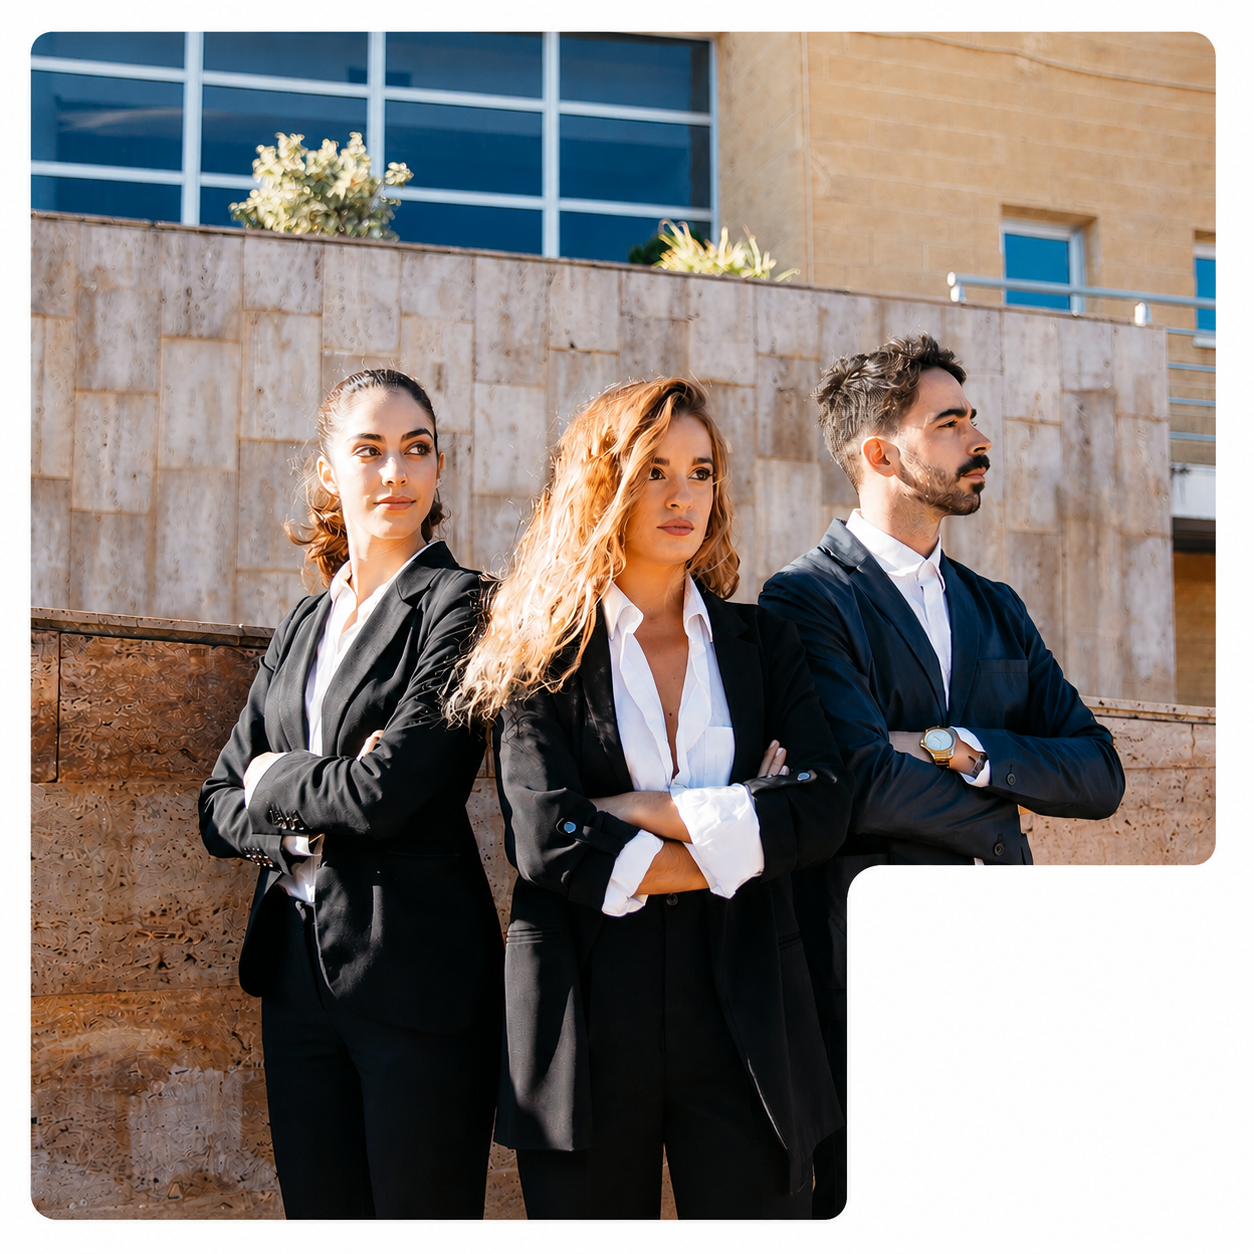
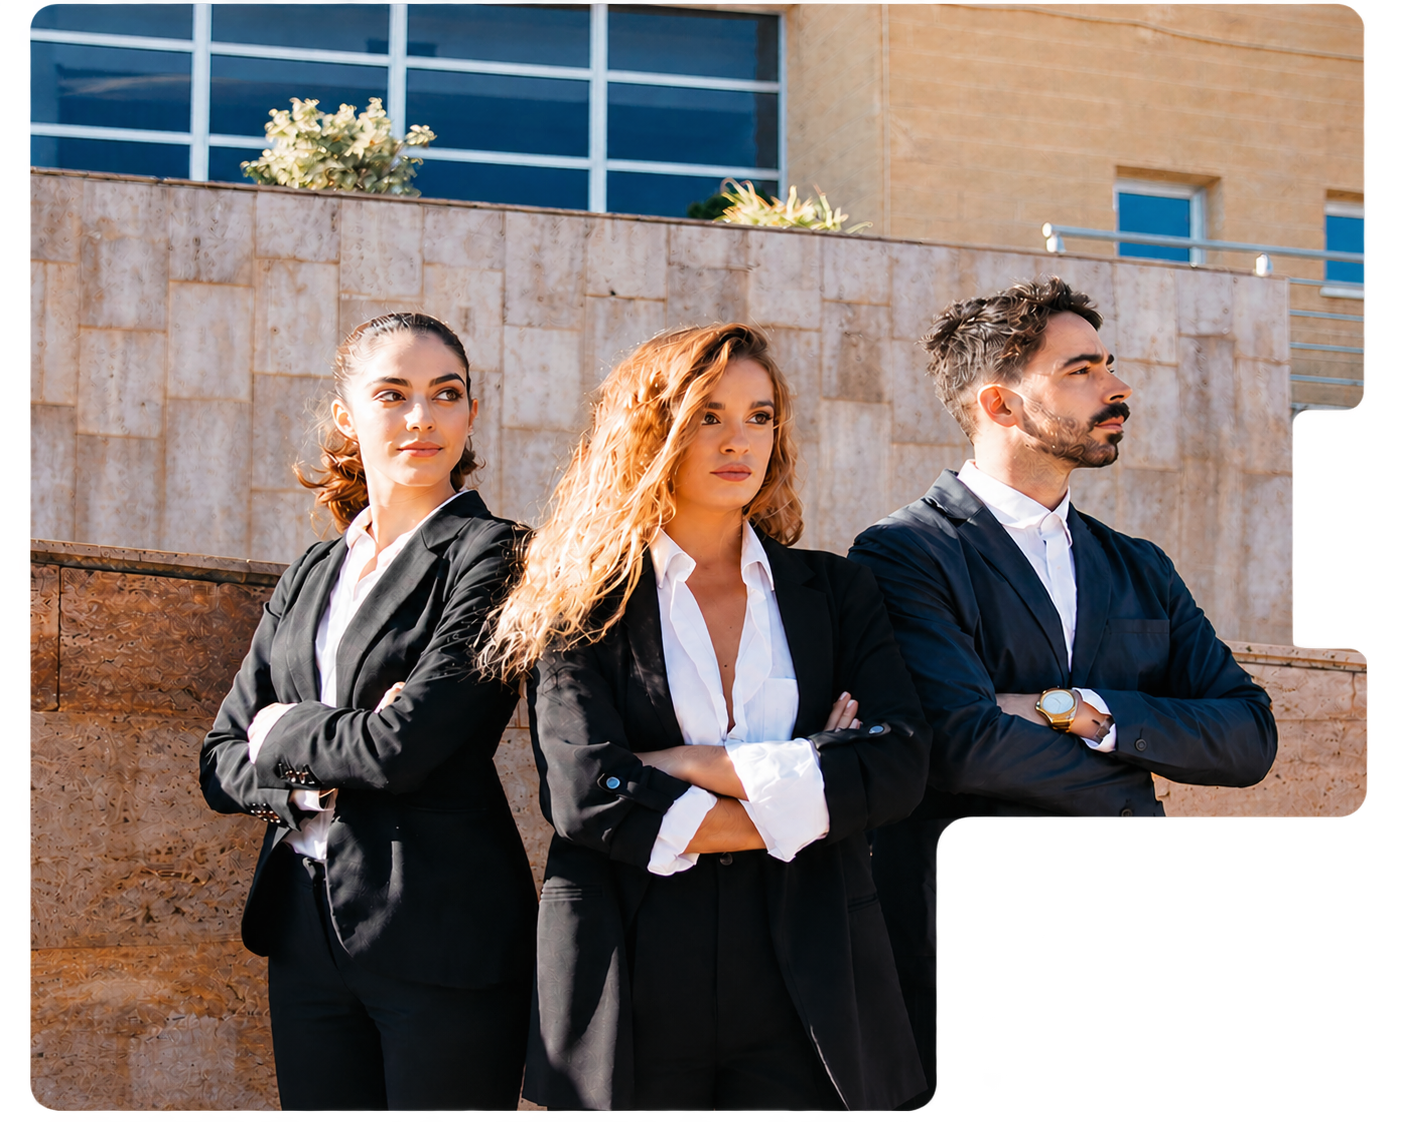
Fix mobile: Why Capital OS heading visibility, hero spacing, image padding, new working process image
- Why Capital OS: reduced text margin-top (50→40px) and image bottom padding for better visibility
- Hero section: increased bottom padding (260→280px) for more space between trust badges and image
- Working Process: replaced image with new section image

🤖 Generated with Codebuff

diff --git a/src/components/Landing/WhyCapitalOS.tsx b/src/components/Landing/WhyCapitalOS.tsx
@@ -42,7 +42,7 @@ const WhyCapitalOS: React.FC = () => {
       <div className="container sm:max-w-[540px] md:max-w-[720px] lg:max-w-[960px] xl:max-w-[1308px] mx-auto px-[12px]">
         <div className="grid grid-cols-1 lg:grid-cols-2 gap-[25px]">
           {/* Text content — second on mobile, first on desktop */}
-          <div className="order-2 lg:order-1 mt-[50px] lg:mt-0 ltr:xl:pr-[35px] rtl:xl:pl-[35px]">
+          <div className="order-2 lg:order-1 mt-[40px] lg:mt-0 ltr:xl:pr-[35px] rtl:xl:pl-[35px]">
             <span className="block uppercase text-xs md:text-sm tracking-[1.95px] font-bold text-[#D15616] mb-[10px]">
               WHY CAPITAL OS
             </span>
@@ -80,7 +80,7 @@ const WhyCapitalOS: React.FC = () => {
             </div>
           </div>
           {/* Image — first on mobile, second on desktop */}
-          <div className="order-1 lg:order-2 pt-[20px] lg:pt-0">
+          <div className="order-1 lg:order-2 pt-[10px] pb-[12px] lg:pt-0 lg:pb-0">
             <div className="text-center relative lg:sticky top-[100px] ltr:lg:pl-[50px] rtl:lg:pr-[50px] ltr:xl:pl-[80px] rtl:xl:pr-[80px]">
               <Image
                 src="/images/real-estate-agent/why-trezo.jpg"

diff --git a/src/components/Landing/HeroBanner.tsx b/src/components/Landing/HeroBanner.tsx
@@ -10,7 +10,7 @@ const HeroBanner: React.FC = () => {
       <div className="container sm:max-w-[540px] md:max-w-[720px] lg:max-w-[960px] xl:max-w-[1308px] mx-auto px-[12px]">
         <div className="relative bg-[#06201b] rounded-[20px] md:rounded-[30px] overflow-hidden min-h-[480px] md:min-h-[560px] lg:min-h-[600px] xl:min-h-[640px]">
           {/* Left: Copy — more top padding, centered vertically */}
-          <div className="relative z-10 pt-[45px] pb-[260px] px-[20px] md:pt-[60px] md:px-[40px] lg:pt-[80px] lg:pb-[20px] lg:px-[50px] xl:pt-[90px] xl:px-[80px] lg:absolute lg:inset-y-0 lg:left-0 lg:w-[50%] lg:flex lg:flex-col lg:justify-center">
+          <div className="relative z-10 pt-[45px] pb-[280px] px-[20px] md:pt-[60px] md:px-[40px] lg:pt-[80px] lg:pb-[20px] lg:px-[50px] xl:pt-[90px] xl:px-[80px] lg:absolute lg:inset-y-0 lg:left-0 lg:w-[50%] lg:flex lg:flex-col lg:justify-center">
             <h1 className="!font-medium !text-[#ebebe0] !text-[32px] md:!text-[44px] lg:!text-[50px] xl:!text-[58px] !leading-[1.15] md:-tracking-[1.5px] !mb-[12px] lg:!mb-[16px]">
               Your AI{" "}
               <span className="italic text-lime-500">Fundraising</span>{" "}
